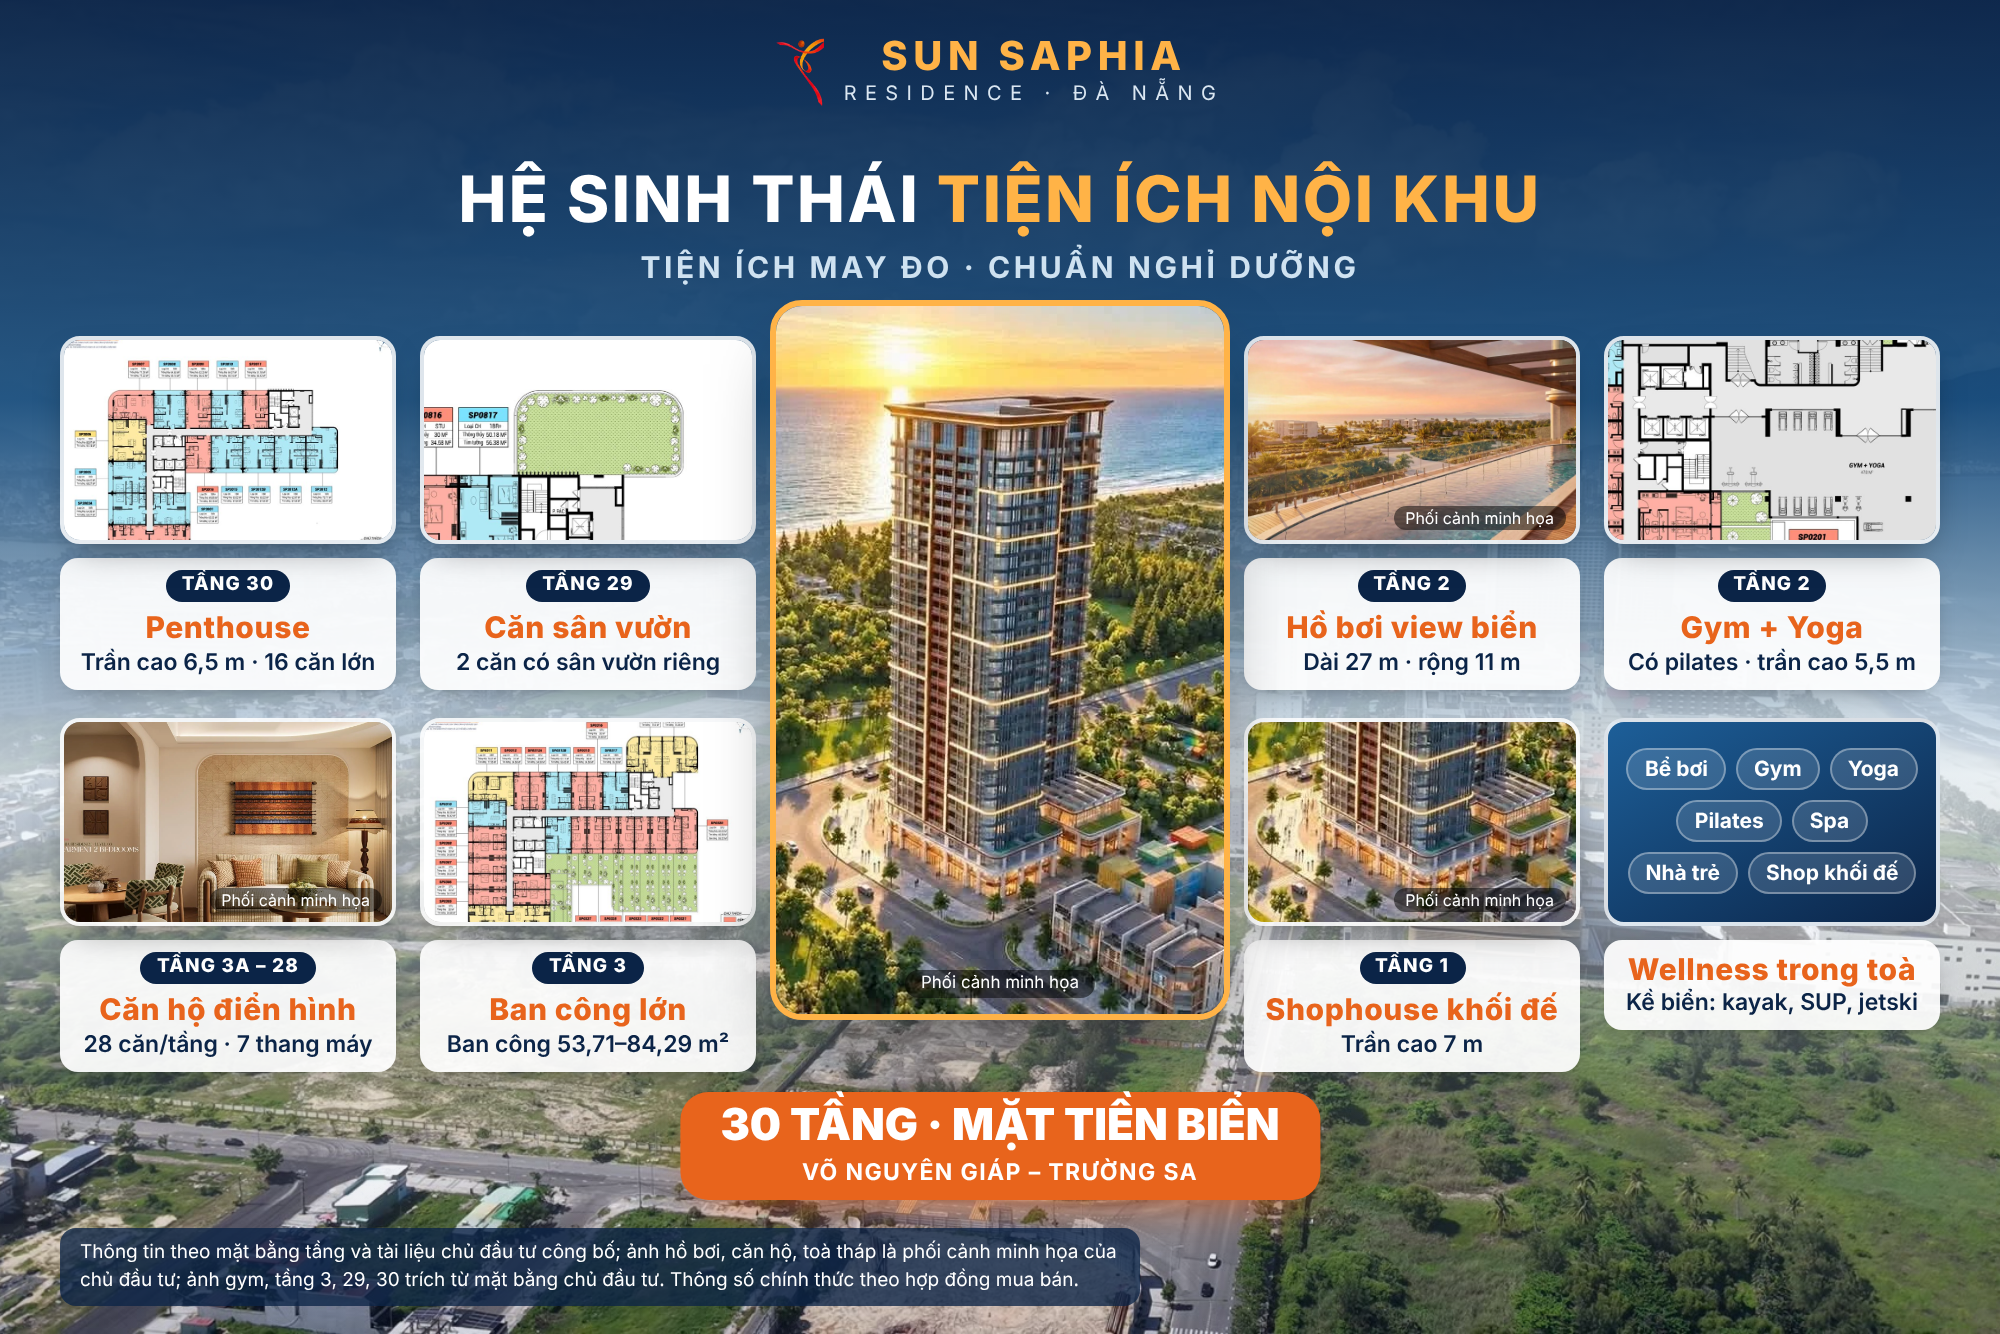
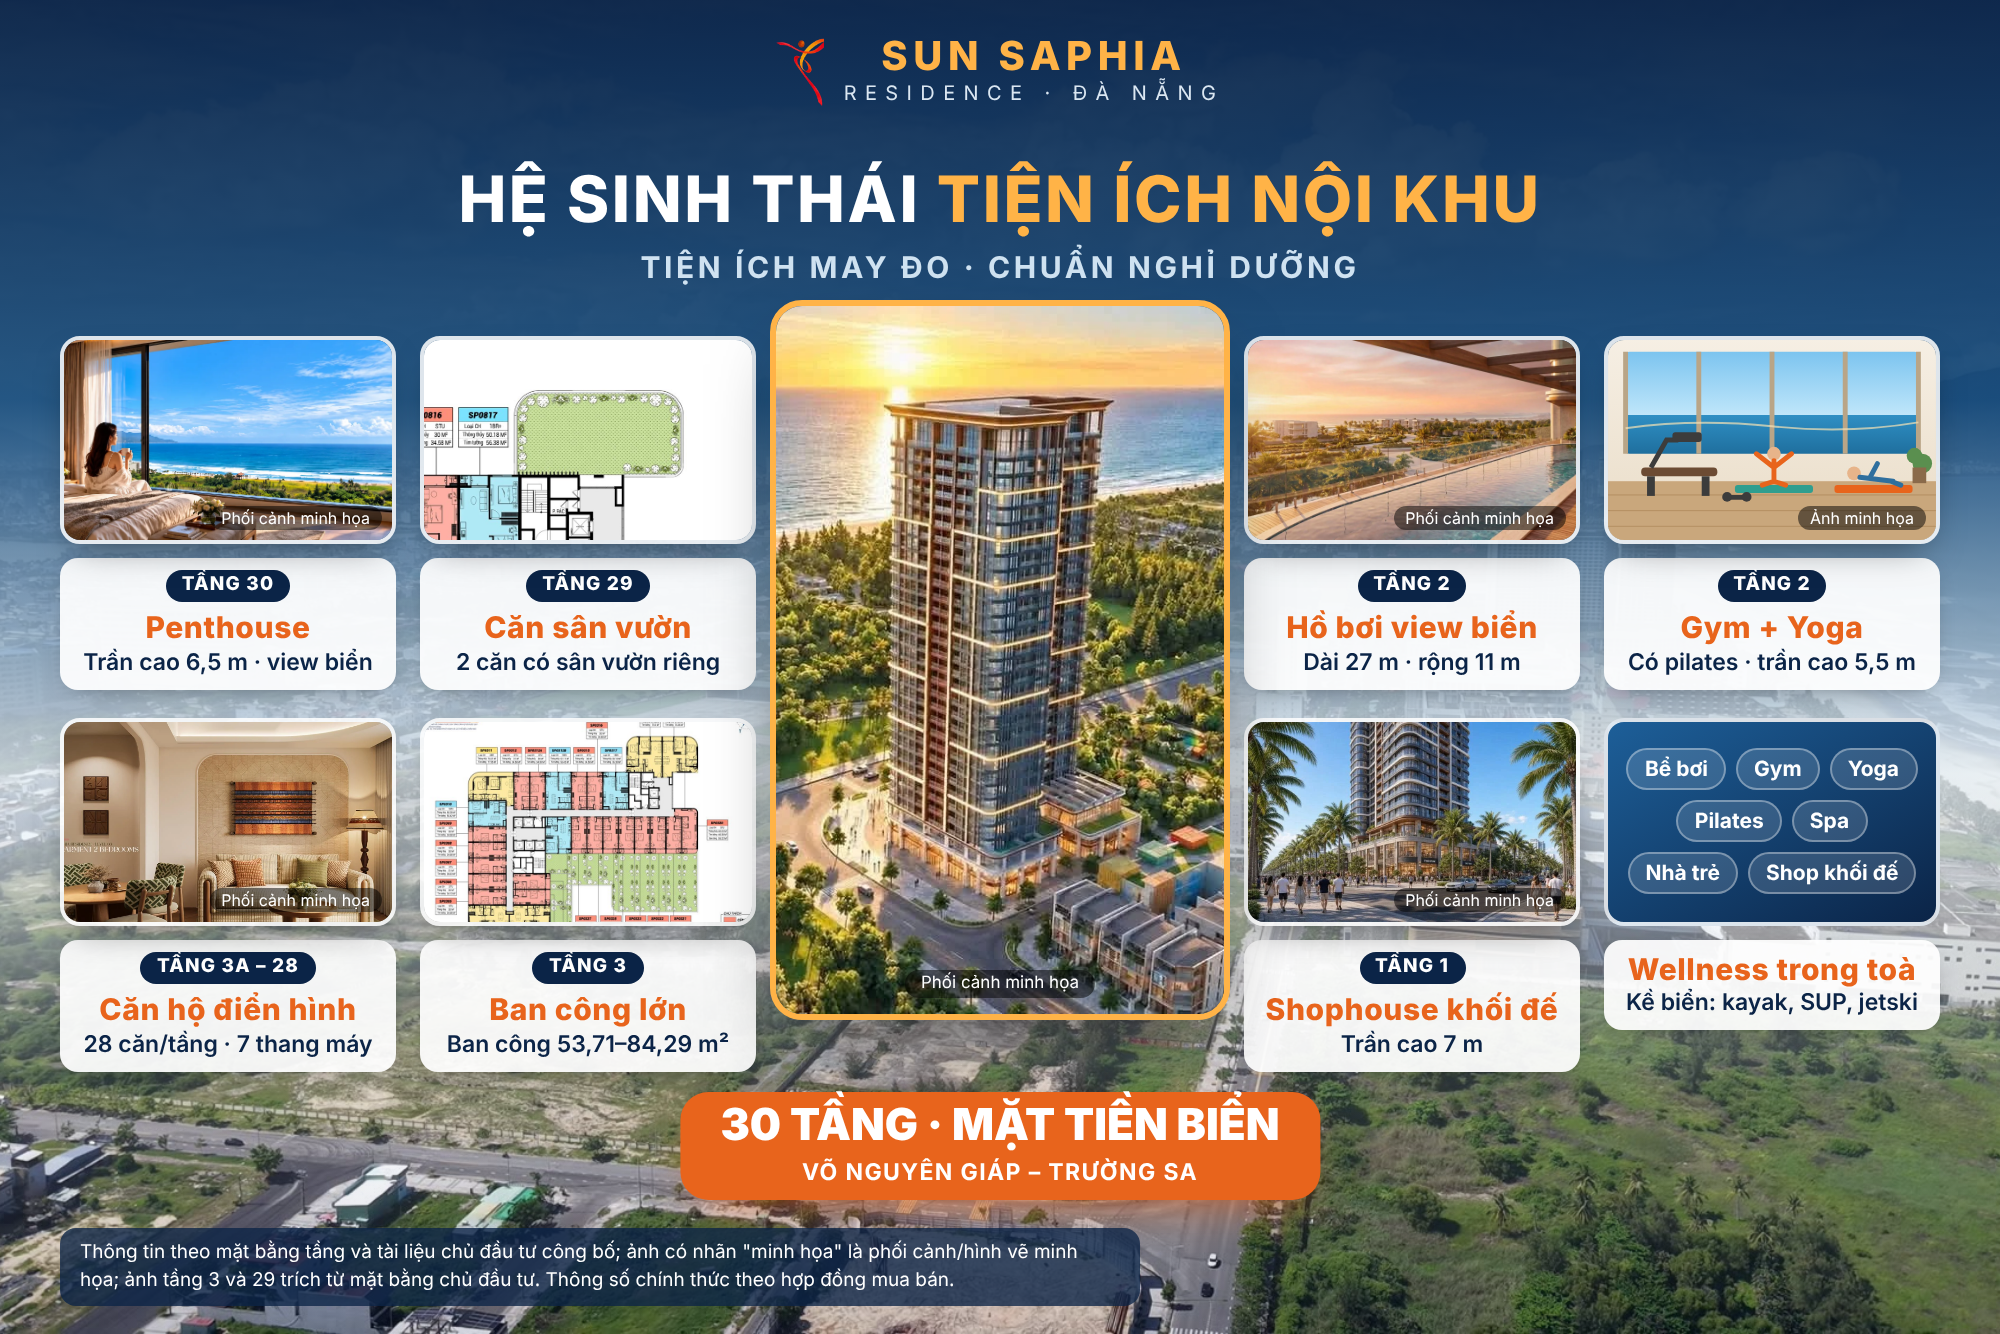
Infographic nội khu: phối cảnh penthouse, khối đế, hình minh họa gym + yoga
Claude-Session: https://claude.ai/code/session_01QqqhqeJL7dLdZQGmjqHGDV

diff --git a/social/sun-saphia/infographic/noi-khu.html b/social/sun-saphia/infographic/noi-khu.html
@@ -44,18 +44,18 @@ h1 em{font-style:normal;color:#ffb347}
 <h1>HỆ SINH THÁI <em>TIỆN ÍCH NỘI KHU</em></h1>
 <div class="sub">TIỆN ÍCH MAY ĐO · CHUẨN NGHỈ DƯỠNG</div>
 <div class="g l">
- <div class="t"><div class="p"><img src="anh/nk-penthouse.jpg"></div><div class="cap"><span class="f">TẦNG 30</span><b>Penthouse</b>Trần cao 6,5 m · 16 căn lớn</div></div>
+ <div class="t"><div class="p"><img src="anh/pc-penthouse.webp"><i class="mh">Phối cảnh minh họa</i></div><div class="cap"><span class="f">TẦNG 30</span><b>Penthouse</b>Trần cao 6,5 m · view biển</div></div>
  <div class="t"><div class="p"><img src="anh/nk-vuon-mai.jpg"></div><div class="cap"><span class="f">TẦNG 29</span><b>Căn sân vườn</b>2 căn có sân vườn riêng</div></div>
  <div class="t"><div class="p"><img src="anh/pc-can-ho.webp" style="object-position:60% 50%"><i class="mh">Phối cảnh minh họa</i></div><div class="cap"><span class="f">TẦNG 3A – 28</span><b>Căn hộ điển hình</b>28 căn/tầng · 7 thang máy</div></div>
  <div class="t"><div class="p"><img src="anh/nk-tang3.jpg"></div><div class="cap"><span class="f">TẦNG 3</span><b>Ban công lớn</b>Ban công 53,71–84,29 m²</div></div>
 </div>
 <div class="g r">
  <div class="t"><div class="p"><img src="anh/pc-ho-boi.webp" style="object-position:40% 90%"><i class="mh">Phối cảnh minh họa</i></div><div class="cap"><span class="f">TẦNG 2</span><b>Hồ bơi view biển</b>Dài 27 m · rộng 11 m</div></div>
- <div class="t"><div class="p"><img src="anh/nk-gym.jpg"></div><div class="cap"><span class="f">TẦNG 2</span><b>Gym + Yoga</b>Có pilates · trần cao 5,5 m</div></div>
- <div class="t"><div class="p"><img src="anh/nk-khoi-de.jpg"><i class="mh">Phối cảnh minh họa</i></div><div class="cap"><span class="f">TẦNG 1</span><b>Shophouse khối đế</b>Trần cao 7 m</div></div>
+ <div class="t"><div class="p"><img src="anh/gym-yoga.svg"><i class="mh">Ảnh minh họa</i></div><div class="cap"><span class="f">TẦNG 2</span><b>Gym + Yoga</b>Có pilates · trần cao 5,5 m</div></div>
+ <div class="t"><div class="p"><img src="anh/pc-khoi-de.webp" style="object-position:50% 60%"><i class="mh">Phối cảnh minh họa</i></div><div class="cap"><span class="f">TẦNG 1</span><b>Shophouse khối đế</b>Trần cao 7 m</div></div>
  <div class="t"><div class="lst"><span>Bể bơi</span><span>Gym</span><span>Yoga</span><span>Pilates</span><span>Spa</span><span>Nhà trẻ</span><span>Shop khối đế</span></div><div class="cap"><b>Wellness trong toà</b>Kề biển: kayak, SUP, jetski</div></div>
 </div>
 <div class="tw"><img src="anh/nk-thap.jpg"><i>Phối cảnh minh họa</i></div>
 <div class="big" style="top:546px;padding:6px 20px"><style>.big b{font-size:22px!important}</style><b>30 TẦNG · MẶT TIỀN BIỂN</b><span>VÕ NGUYÊN GIÁP – TRƯỜNG SA</span></div>
-<div class="ft"><p>Thông tin theo mặt bằng tầng và tài liệu chủ đầu tư công bố; ảnh hồ bơi, căn hộ, toà tháp là phối cảnh minh họa của chủ đầu tư; ảnh gym, tầng 3, 29, 30 trích từ mặt bằng chủ đầu tư. Thông số chính thức theo hợp đồng mua bán.</p><div class="z">📞 Zalo <span>0904 567 009</span></div></div>
+<div class="ft"><p>Thông tin theo mặt bằng tầng và tài liệu chủ đầu tư công bố; ảnh có nhãn "minh họa" là phối cảnh/hình vẽ minh họa; ảnh tầng 3 và 29 trích từ mặt bằng chủ đầu tư. Thông số chính thức theo hợp đồng mua bán.</p><div class="z">📞 Zalo <span>0904 567 009</span></div></div>
 </div></body></html>

diff --git a/social/sun-saphia/infographic/noi-khu-sale.html b/social/sun-saphia/infographic/noi-khu-sale.html
@@ -44,18 +44,18 @@ h1 em{font-style:normal;color:#ffb347}
 <h1>HỆ SINH THÁI <em>TIỆN ÍCH NỘI KHU</em></h1>
 <div class="sub">TIỆN ÍCH MAY ĐO · CHUẨN NGHỈ DƯỠNG</div>
 <div class="g l">
- <div class="t"><div class="p"><img src="anh/nk-penthouse.jpg"></div><div class="cap"><span class="f">TẦNG 30</span><b>Penthouse</b>Trần cao 6,5 m · 16 căn lớn</div></div>
+ <div class="t"><div class="p"><img src="anh/pc-penthouse.webp"><i class="mh">Phối cảnh minh họa</i></div><div class="cap"><span class="f">TẦNG 30</span><b>Penthouse</b>Trần cao 6,5 m · view biển</div></div>
  <div class="t"><div class="p"><img src="anh/nk-vuon-mai.jpg"></div><div class="cap"><span class="f">TẦNG 29</span><b>Căn sân vườn</b>2 căn có sân vườn riêng</div></div>
  <div class="t"><div class="p"><img src="anh/pc-can-ho.webp" style="object-position:60% 50%"><i class="mh">Phối cảnh minh họa</i></div><div class="cap"><span class="f">TẦNG 3A – 28</span><b>Căn hộ điển hình</b>28 căn/tầng · 7 thang máy</div></div>
  <div class="t"><div class="p"><img src="anh/nk-tang3.jpg"></div><div class="cap"><span class="f">TẦNG 3</span><b>Ban công lớn</b>Ban công 53,71–84,29 m²</div></div>
 </div>
 <div class="g r">
  <div class="t"><div class="p"><img src="anh/pc-ho-boi.webp" style="object-position:40% 90%"><i class="mh">Phối cảnh minh họa</i></div><div class="cap"><span class="f">TẦNG 2</span><b>Hồ bơi view biển</b>Dài 27 m · rộng 11 m</div></div>
- <div class="t"><div class="p"><img src="anh/nk-gym.jpg"></div><div class="cap"><span class="f">TẦNG 2</span><b>Gym + Yoga</b>Có pilates · trần cao 5,5 m</div></div>
- <div class="t"><div class="p"><img src="anh/nk-khoi-de.jpg"><i class="mh">Phối cảnh minh họa</i></div><div class="cap"><span class="f">TẦNG 1</span><b>Shophouse khối đế</b>Trần cao 7 m</div></div>
+ <div class="t"><div class="p"><img src="anh/gym-yoga.svg"><i class="mh">Ảnh minh họa</i></div><div class="cap"><span class="f">TẦNG 2</span><b>Gym + Yoga</b>Có pilates · trần cao 5,5 m</div></div>
+ <div class="t"><div class="p"><img src="anh/pc-khoi-de.webp" style="object-position:50% 60%"><i class="mh">Phối cảnh minh họa</i></div><div class="cap"><span class="f">TẦNG 1</span><b>Shophouse khối đế</b>Trần cao 7 m</div></div>
  <div class="t"><div class="lst"><span>Bể bơi</span><span>Gym</span><span>Yoga</span><span>Pilates</span><span>Spa</span><span>Nhà trẻ</span><span>Shop khối đế</span></div><div class="cap"><b>Wellness trong toà</b>Kề biển: kayak, SUP, jetski</div></div>
 </div>
 <div class="tw"><img src="anh/nk-thap.jpg"><i>Phối cảnh minh họa</i></div>
 <div class="big" style="top:546px;padding:6px 20px"><style>.big b{font-size:22px!important}</style><b>30 TẦNG · MẶT TIỀN BIỂN</b><span>VÕ NGUYÊN GIÁP – TRƯỜNG SA</span></div>
-<div class="ft"><p>Thông tin theo mặt bằng tầng và tài liệu chủ đầu tư công bố; ảnh hồ bơi, căn hộ, toà tháp là phối cảnh minh họa của chủ đầu tư; ảnh gym, tầng 3, 29, 30 trích từ mặt bằng chủ đầu tư. Thông số chính thức theo hợp đồng mua bán.</p></div>
+<div class="ft"><p>Thông tin theo mặt bằng tầng và tài liệu chủ đầu tư công bố; ảnh có nhãn "minh họa" là phối cảnh/hình vẽ minh họa; ảnh tầng 3 và 29 trích từ mặt bằng chủ đầu tư. Thông số chính thức theo hợp đồng mua bán.</p></div>
 </div></body></html>
